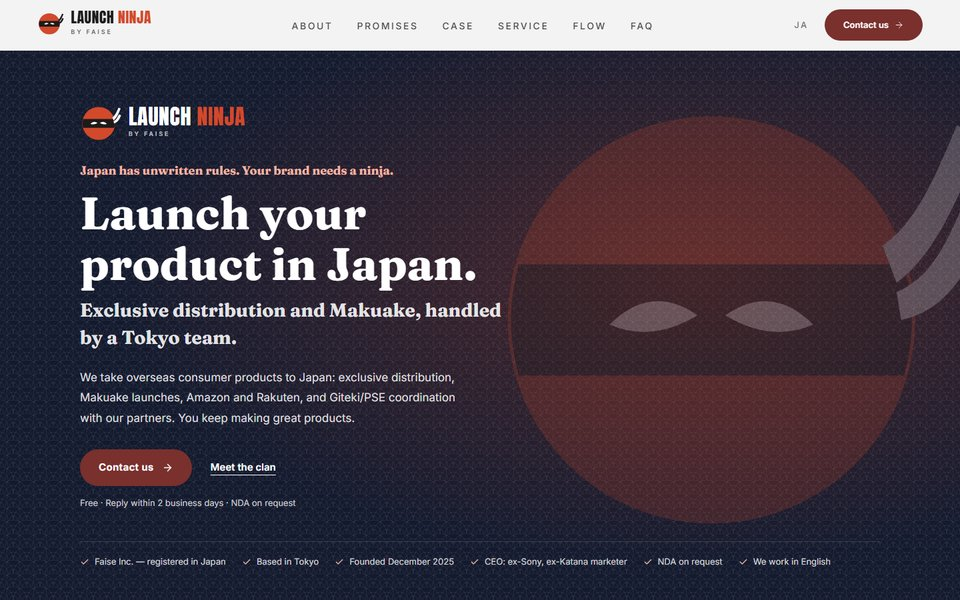
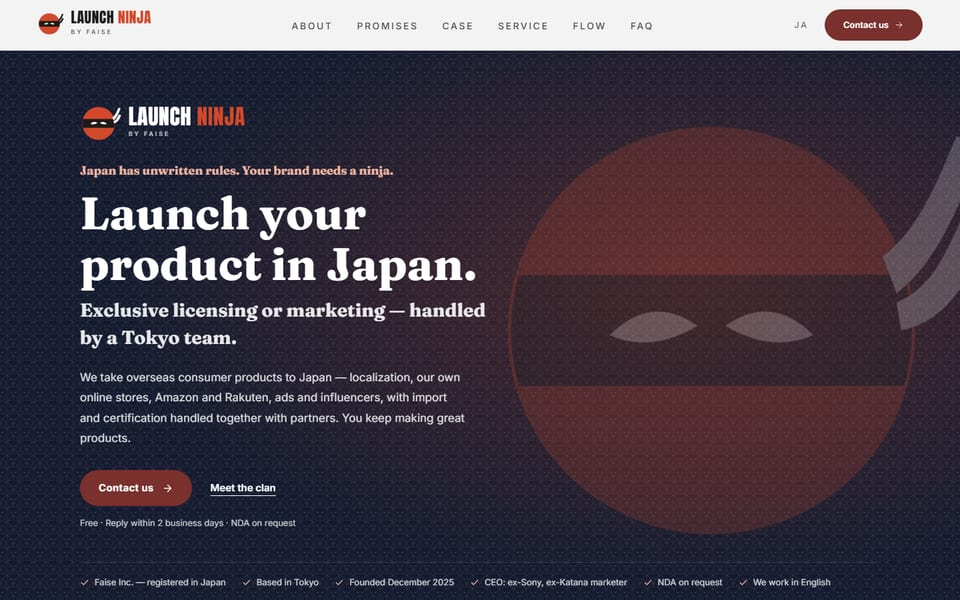
feat(launch-ninja): Cyspera results, two models, no Makuake focus
- Case: Cyspera Japan launch, 10,000+ units within three months; what
  Faise handled (localization, Japanese online store with link, in-house
  ad creatives and campaigns, influencer marketing, fulfillment)
- Ways to work: Exclusive License and Marketing Only (Makuake model and
  "What is Makuake?" panel removed)
- Hero, title, meta, definition, service list, channels, flow, FAQ,
  structured data and llms.txt no longer assume a Makuake launch
- Top-page LAUNCH NINJA card: text and screenshot updated

diff --git a/src/lib/japan-ninja.ts b/src/lib/japan-ninja.ts
@@ -12,12 +12,12 @@ export const CORPORATE_NUMBER = ''
 export const CTA_NOTE = 'Free · Reply within 2 business days · NDA on request'
 
 export const ninjaMeta = {
-  title: 'Japan Distributor & Makuake Launch Partner | LAUNCH NINJA by Faise',
+  title: 'Japan Market Entry & Exclusive Distribution Partner | LAUNCH NINJA by Faise',
   description:
-    'Tokyo-based partner for overseas consumer brands. Exclusive distribution, Makuake launches, Amazon & Rakuten, and Giteki/PSE coordination. Get a free Japan Scan.',
+    'Tokyo-based partner for overseas consumer brands. Take an exclusive Japan license or keep your setup and let us run the marketing: e-commerce, Amazon & Rakuten, ads and influencers. Get a free Japan Scan.',
   // AI 検索・要約で引用されやすい定義文（ページ上部にも表示）
   definition:
-    'LAUNCH NINJA by Faise is a Tokyo-based Japan market entry service for overseas consumer brands, offering exclusive distribution, Makuake crowdfunding launches, Amazon and Rakuten sales, influencer marketing, and Giteki/PSE coordination with partners.',
+    'LAUNCH NINJA by Faise is a Tokyo-based Japan market entry service for overseas consumer brands. Faise either takes an exclusive license and launches the product across Japanese channels (its own online store, Amazon, Rakuten, retail and more), or runs the Japan marketing for a brand’s existing setup — localization, ads and influencer marketing, with import and certification handled together with partners.',
 }
 
 // 上部メニュー（LP 内のセクションへ）
@@ -33,8 +33,8 @@ export const ninjaNav = [
 export const ninjaHero = {
   eyebrow: NINJA_NAME,
   kicker: 'Japan has unwritten rules. Your brand needs a ninja.',
-  h1: ['Launch your product in Japan.', 'Exclusive distribution and Makuake, handled by a Tokyo team.'],
-  sub: 'We take overseas consumer products to Japan: exclusive distribution, Makuake launches, Amazon and Rakuten, and Giteki/PSE coordination with our partners. You keep making great products.',
+  h1: ['Launch your product in Japan.', 'Exclusive licensing or marketing — handled by a Tokyo team.'],
+  sub: 'We take overseas consumer products to Japan — localization, our own online stores, Amazon and Rakuten, ads and influencers, with import and certification handled together with partners. You keep making great products.',
   note: 'For makers of gadgets, lifestyle and beauty products. No Japanese entity needed.',
   clanAlt:
     'Illustration of the four Faise ninjas standing together in front of a night Tokyo skyline: Hanzo in indigo at the center, Basho in moss green, Chiyome in crimson and Kotaro in charcoal and orange',
@@ -125,7 +125,7 @@ export const service = {
     { name: 'Localization of story & claims', ninja: 'basho' as NinjaKey },
     { name: 'Japanese product pages', ninja: 'basho' as NinjaKey },
     { name: 'Short video & content', ninja: 'basho' as NinjaKey },
-    { name: 'Makuake page & launch', ninja: 'chiyome' as NinjaKey },
+    { name: 'Launch campaigns & PR', ninja: 'chiyome' as NinjaKey },
     { name: 'Influencer casting', ninja: 'chiyome' as NinjaKey },
     { name: 'Ads (Meta, Google, Amazon)', ninja: 'kotaro' as NinjaKey },
     { name: 'Amazon & Rakuten operations', ninja: 'kotaro' as NinjaKey },
@@ -134,7 +134,7 @@ export const service = {
   partnerTitle: 'With our partners',
   partner: ['Import', 'PSE & Giteki', 'Logistics', 'Japanese customer support'],
   channelsTitle: 'Where we sell',
-  channels: ['Makuake', 'Amazon Japan', 'Rakuten Ichiba', 'Instagram · TikTok · YouTube', 'Specialty & lifestyle stores'],
+  channels: ['Our own online stores', 'Amazon Japan', 'Rakuten Ichiba', 'Instagram · TikTok · YouTube', 'Crowdfunding (when it fits)', 'Specialty & lifestyle stores'],
 }
 
 export const clanSection = {
@@ -164,16 +164,20 @@ export const midCta = {
   body: 'Send us a message. We reply within 2 business days with a free one-page Japan Scan.',
 }
 
-// Cyspera の数値枠。
-// TODO: 数値 — 以下の value はすべて未確定のプレースホルダー。実数（と期間・比較条件）が確定したら差し替える。数字は創作しないこと
-export const caseMetrics = [
-  { label: 'Monthly sales growth', value: '{{TODO: 数値}}', note: 'vs. launch month' },
-  { label: 'Reels views', value: '{{TODO: 数値}}', note: 'across 3 creator posts' },
-  { label: 'Reels saves', value: '{{TODO: 数値}}', note: 'across 3 creator posts' },
-  { label: 'Reviews', value: '{{TODO: 数値}}', note: 'Amazon & online store' },
-]
+// 実績：Cyspera（英語LP専用。日本語ページは japan-launch.ts の track.featured のまま）
+export const cyspera = {
+  stat: { value: '10,000+', label: 'units sold within three months of launch' },
+  lead: 'We led the Japan launch of Cyspera, a skincare brand from the Swiss company scientis, and sold more than 10,000 units within three months of launch.',
+  workLabel: 'Faise handled every part of the Japan go-to-market',
+  work: [
+    { title: 'Localization & positioning', body: 'We adapted the brand message and product information for Japanese consumers.' },
+    { title: 'E-commerce', body: 'We built and ran the Japanese online store.', link: { href: 'https://www.luxora.shop/products/cyspera-dark-spot-treatment', label: 'luxora.shop' } },
+    { title: 'Advertising', body: 'We produced the ad creatives in-house and ran the paid campaigns.' },
+    { title: 'Influencer marketing', body: 'We cast Japanese influencers and planned and managed their content.' },
+    { title: 'Fulfillment', body: 'We managed shipping to customers in Japan.' },
+  ] as { title: string; body: string; link?: { href: string; label: string } }[],
+}
 
-// FLOW：6ステップ
 // 流れ（問い合わせから拡販まで）
 // TODO: 要記入 — 各ステップの目安期間（週）
 export const flow = {
@@ -184,7 +188,7 @@ export const flow = {
     { title: 'Free Japan Scan', body: 'Within 2 business days: buyer, price band, claims that land and best channels.', ninja: 'hanzo' as NinjaKey },
     { title: 'Meeting & proposal', body: 'An online meeting, then a proposal with the model and terms in writing.', ninja: 'hanzo' as NinjaKey },
     { title: 'Prepare', body: 'Compliance and import with partners; story, pages and video localized.', ninja: 'basho' as NinjaKey },
-    { title: 'Launch', body: 'Makuake or marketplace launch, with creators going first.', ninja: 'chiyome' as NinjaKey },
+    { title: 'Launch', body: 'Online store, Amazon and Rakuten go live, with creators going first.', ninja: 'chiyome' as NinjaKey },
     { title: 'Scale', body: 'Amazon, Rakuten, ads, then retail.', ninja: 'kotaro' as NinjaKey },
   ],
 }
@@ -210,12 +214,12 @@ export const finalCta = {
 // 信頼バー（ヒーロー直下）。事実のみ
 export const trustBar = ['Faise Inc. — registered in Japan', 'Based in Tokyo', 'Founded December 2025', 'CEO: ex-Sony, ex-Katana marketer', 'NDA on request', 'We work in English']
 
-// 対象（Kickstarter などで実績のあるメーカー）
+// 対象（海外で売れている商品を持つメーカー）
 export const whoFor = {
   label: 'Who it’s for',
   h2: ['Built for makers who are ready for Japan —', 'even if Japan wasn’t in the plan.'],
   items: [
-    'You’ve proven demand on Kickstarter, Indiegogo or your own store.',
+    'Your product already sells abroad — on your own store, Amazon or Kickstarter.',
     'You don’t have a Japanese entity, team or importer.',
     'You make consumer products: gadgets, lifestyle or beauty.',
     'You’d rather not spend months learning Japan’s rules yourself.',
@@ -227,38 +231,24 @@ export const whoFor = {
   ],
 }
 
-// 協業の形（3つ）
+// 協業の形（2つ）
 export const waysToWork = {
   label: 'Ways to work',
-  h2: ['Three ways to', 'launch in Japan.'],
+  h2: ['Two ways to', 'launch in Japan.'],
   items: [
     {
-      name: 'Exclusive Distribution',
-      title: 'We become your exclusive partner in Japan.',
-      body: 'Import (with our partners), launch, sales and marketing — handled as one team, for an agreed term.',
+      name: 'Exclusive License',
+      title: 'We license your brand for Japan and launch it everywhere.',
+      body: 'We take an exclusive license for Japan and run the whole launch as one team: import (with our partners), our own online store, Amazon and Rakuten, ads, influencers and retail — for an agreed term.',
       best: 'Best if you want Japan handled end-to-end.',
-    },
-    {
-      name: 'Makuake Launch',
-      title: 'We launch you on Makuake.',
-      body: 'We plan and run your launch on Makuake, one of Japan’s best-known crowdfunding platforms for new products, then carry the momentum into Amazon, Rakuten and retail.',
-      best: 'Best if you’ve just finished a Kickstarter or Indiegogo campaign.',
     },
     {
       name: 'Marketing Only',
       title: 'You keep your setup. We run the marketing.',
-      body: 'Keep your current distributor or Amazon setup. We run localization, influencers, content and ads in Japan.',
+      body: 'Keep your current distributor, Amazon or online store. We run localization, ad creatives and campaigns, and influencer marketing in Japan.',
       best: 'Best if you already sell in Japan but sales are flat.',
     },
   ],
-  note: 'Models can be combined — for example, a Makuake launch first, then exclusive distribution.',
-}
-
-// Makuake の説明（数字は出典付きで確定してから足す）
-// TODO: 要記入 — Makuake の規模（プロジェクト数・応援総額など）を、出典と年月つきで追加する
-export const makuake = {
-  title: 'What is Makuake?',
-  body: 'Makuake is one of Japan’s best-known crowdfunding platforms for launching new products to early adopters. It works like a Japanese Kickstarter, and many buyers and retailers watch it for what’s new. A strong Makuake launch gives you Japanese reviews, buzz and a sales record to take to Amazon, Rakuten and stores.',
 }
 
 // 会社情報
@@ -284,7 +274,7 @@ export const ninjaFaq = {
   items: [
     {
       q: 'What does exclusive distribution in Japan look like with you?',
-      a: 'Faise becomes your single partner for Japan for an agreed, renewable term. The term, territory and channel scope are written into a distribution agreement before anything ships, and exclusivity can be limited to specific channels if you already sell in Japan.',
+      a: 'Faise takes an exclusive license and becomes your single partner for Japan for an agreed, renewable term. The term, territory and channel scope are written into a distribution agreement before anything ships, and exclusivity can be limited to specific channels if you already sell in Japan.',
     },
     {
       q: 'Is there a minimum order or sales commitment?',
@@ -304,15 +294,11 @@ export const ninjaFaq = {
     },
     {
       q: 'What have you done before?',
-      a: 'We run the Japan expansion of Cyspera, a skincare product from the Swiss brand scientis: sales on Amazon Japan and online stores, ad operations and creator content with Japanese influencers. Our CEO also brings marketing experience from Sony and Katana, a Japanese marketing firm.',
+      a: 'We led the Japan launch of Cyspera, a skincare brand from the Swiss company scientis, and sold more than 10,000 units within three months of launch. We handled localization, the Japanese online store, ad creatives and campaigns, influencer marketing and fulfillment. Our CEO also brings marketing experience from Sony and Katana, a Japanese marketing firm.',
     },
     {
-      q: 'What is Makuake?',
-      a: 'Makuake is one of Japan’s best-known crowdfunding platforms for launching new products. It works like a Japanese Kickstarter: early adopters back new products, and a strong launch gives you Japanese reviews and a sales record to take to Amazon, Rakuten and retailers.',
-    },
-    {
-      q: 'We already ran a Kickstarter or Indiegogo campaign. Can we still launch on Makuake?',
-      a: 'In many cases, yes — Makuake is about launching to Japanese buyers. Makuake has its own rules, for example on products already sold in Japan, so we check your product’s eligibility before planning the launch.',
+      q: 'Where will our product be sold in Japan?',
+      a: 'Wherever your buyers are. Usually that means our own Japanese online store, Amazon Japan and Rakuten Ichiba, backed by ads and influencer content — then specialty and lifestyle retail. Crowdfunding platforms are an option when they fit the product, not a requirement.',
     },
     {
       q: 'Who handles Giteki, PSE, Japanese labels and import?',

diff --git a/src/components/views/JapanNinjaView.tsx b/src/components/views/JapanNinjaView.tsx
@@ -19,14 +19,13 @@ import {
   NINJA_NAME,
   SCAN_ANCHOR,
   about,
-  caseMetrics,
+  cyspera,
   clan,
   clanSection,
   companyFacts,
   finalCta,
   flow,
   leader,
-  makuake,
   midCta,
   ninjaFaq,
   ninjaHero,
@@ -89,13 +88,13 @@ const ld = {
       '@id': `${url}#service`,
       name: NINJA_NAME,
       alternateName: 'LAUNCH NINJA',
-      serviceType: 'Japan market entry, exclusive distribution and Makuake launch for overseas brands',
+      serviceType: 'Japan market entry, exclusive licensing and marketing for overseas brands',
       description: ninjaMeta.definition,
       url,
       inLanguage: 'en',
       provider: { '@id': ORG_ID },
       areaServed: { '@type': 'Country', name: 'Japan' },
-      audience: { '@type': 'BusinessAudience', name: 'Overseas consumer product makers and brands, including Kickstarter and Indiegogo creators' },
+      audience: { '@type': 'BusinessAudience', name: 'Overseas consumer product makers and brands' },
       hasOfferCatalog: {
         '@type': 'OfferCatalog',
         name: 'Ways to work',
@@ -125,8 +124,6 @@ const edoAlt: Record<string, string> = {
 const container = 'mx-auto w-full max-w-[1280px] px-5 md:px-10'
 const section = 'py-16 md:py-24'
 const ninjaByKey = Object.fromEntries(clan.map((c) => [c.key, c])) as Record<NinjaKey, (typeof clan)[number]>
-// 未確定（{{TODO}}）の数値は表示しない
-const shownMetrics = caseMetrics.filter((m) => !m.value.includes('TODO'))
 
 // 見出し上の小ラベル。seal を渡すと朱色の落款（漢字1字・装飾）を添える
 function Eyebrow({ children, light = false, seal }: { children: React.ReactNode; light?: boolean; seal?: string }) {
@@ -341,7 +338,7 @@ export default function JapanNinjaView() {
         </div>
       </section>
 
-      {/* 3. Who it's for：Kickstarter などで実績のあるメーカー */}
+      {/* 3. Who it's for：海外で売れている商品を持つメーカー */}
       <section id="who" className={`${section} scroll-mt-16 bg-white`}>
         <div className={container}>
           <div className="grid gap-10 lg:grid-cols-[minmax(0,1fr)_minmax(0,1fr)] lg:items-end lg:gap-14">
@@ -433,34 +430,38 @@ export default function JapanNinjaView() {
         <div className={`${container} relative`}>
           <SectionHead en="Voice" label={featured.label.en} title={featured.title.en} light />
           <div data-fx className="mt-12 grid overflow-hidden rounded-2xl border-2 border-sumi bg-white text-sumi shadow-[0_20px_50px_-20px_rgba(0,0,0,0.6)] md:grid-cols-[minmax(0,0.75fr)_minmax(0,1.25fr)]">
-            <div className="relative flex items-center justify-center bg-washi bg-seigaiha p-8">
+            <div className="relative flex flex-col items-center justify-center gap-6 bg-washi bg-seigaiha p-8">
               <span className="absolute left-4 top-4 rounded-full border-2 border-sumi bg-white px-3 py-1 font-inter text-[11px] font-bold uppercase tracking-[0.18em]">Case 01</span>
-              <Image unoptimized src={W('case-cyspera')} alt={featured.image.alt.en} width={featured.image.w} height={featured.image.h} sizes="200px" className="ninja-bob h-[220px] w-auto object-contain md:h-[280px]" />
+              <Image unoptimized src={W('case-cyspera')} alt={featured.image.alt.en} width={featured.image.w} height={featured.image.h} sizes="200px" className="ninja-bob mt-6 h-[200px] w-auto object-contain md:h-[250px]" />
+              {/* 実績の数字（大きく） */}
+              <div className="w-full rounded-xl border-2 border-sumi bg-white px-4 py-4 text-center shadow-[4px_4px_0_#1D1B1A]">
+                <p className="font-display text-[clamp(44px,8vw,60px)] leading-none text-shu">{cyspera.stat.value}</p>
+                <p className="mt-2 text-[13.5px] font-semibold leading-[1.4]">{cyspera.stat.label}</p>
+              </div>
             </div>
             <div className="p-6 md:p-10">
               <p className="font-inter text-[11px] font-bold uppercase tracking-[0.22em] text-beni">{featured.brand}</p>
-              <p className="mt-3 text-[16px] leading-[1.85] text-[#333]">{featured.body.en}</p>
-              <p className="mt-6 font-inter text-[11px] font-bold uppercase tracking-[0.22em] text-[#666]">{featured.workLabel.en}</p>
-              <ul className="mt-3 flex flex-wrap gap-2">
-                {featured.work.map((w) => (
-                  <li key={w.en} className="inline-flex items-center gap-1.5 rounded-full border-2 border-sumi bg-washi px-3.5 py-1.5 text-[13.5px] font-semibold">
-                    <Check size={14} strokeWidth={2.5} aria-hidden="true" className="text-beni" />
-                    {w.en}
+              <p className="mt-3 text-[16.5px] font-medium leading-[1.8] text-[#222]">{cyspera.lead}</p>
+              <p className="mt-7 font-inter text-[11px] font-bold uppercase tracking-[0.22em] text-[#666]">{cyspera.workLabel}</p>
+              <ul className="mt-3 divide-y divide-dashed divide-sumi/15 border-y border-dashed border-sumi/15">
+                {cyspera.work.map((w) => (
+                  <li key={w.title} className="flex gap-3 py-3">
+                    <Check size={18} strokeWidth={2.5} aria-hidden="true" className="mt-[0.2em] shrink-0 text-beni" />
+                    <p className="text-[14.5px] leading-[1.65] text-[#444]">
+                      <span className="font-bold text-sumi">{w.title}: </span>
+                      {w.body}
+                      {w.link && (
+                        <>
+                          {' '}
+                          <a href={w.link.href} target="_blank" rel="noopener" className="font-semibold text-beni underline underline-offset-4 hover:text-beni-deep">
+                            {w.link.label} ↗
+                          </a>
+                        </>
+                      )}
+                    </p>
                   </li>
                 ))}
               </ul>
-              {/* 数値枠。TODO: 数値 — caseMetrics の value が確定したものだけ表示される（japan-ninja.ts） */}
-              {shownMetrics.length > 0 && (
-                <ul className="mt-6 grid grid-cols-2 gap-3">
-                  {shownMetrics.map((m) => (
-                    <li key={m.label} className="rounded-xl border-2 border-sumi bg-washi p-4">
-                      <p className="text-[12.5px] font-medium text-[#555]">{m.label}</p>
-                      <p className="mt-1.5 font-display text-[30px] leading-none text-beni">{m.value}</p>
-                      <p className="mt-1.5 text-[11.5px] text-[#595959]">{m.note}</p>
-                    </li>
-                  ))}
-                </ul>
-              )}
             </div>
           </div>
 
@@ -541,14 +542,14 @@ export default function JapanNinjaView() {
         </div>
       </section>
 
-      {/* 7. Ways to work：3つのモデル＋Makuake の説明 */}
+      {/* 7. Ways to work：2つのモデル（独占ライセンス／マーケティングのみ） */}
       <section id="models" className="relative scroll-mt-16 overflow-hidden bg-white py-20 md:py-28">
         <div className={container}>
           <SectionHead en="Plans" label={waysToWork.label} title={waysToWork.h2} />
-          <ul className="mt-12 grid gap-6 lg:grid-cols-3">
+          <ul className="mx-auto mt-12 grid max-w-[1000px] gap-6 md:grid-cols-2">
             {waysToWork.items.map((m, i) => (
               <li key={m.name} data-fx style={delay(i * 120)} className="flex flex-col overflow-hidden rounded-2xl border-2 border-sumi bg-white shadow-[0_10px_24px_rgba(28,25,23,0.14)] transition-transform duration-300 hover:-translate-y-1.5">
-                <div className={`flex items-center justify-between px-6 py-4 text-white ${['bg-beni', 'bg-shu', 'bg-sumi'][i]}`}>
+                <div className={`flex items-center justify-between px-6 py-4 text-white ${['bg-beni', 'bg-sumi'][i]}`}>
                   <p className="font-display text-[22px] uppercase tracking-[0.03em]">{m.name}</p>
                   <span className="font-display text-[34px] leading-none text-white/40">{String(i + 1).padStart(2, '0')}</span>
                 </div>
@@ -563,17 +564,6 @@ export default function JapanNinjaView() {
               </li>
             ))}
           </ul>
-          <p className="mt-6 text-center text-[14px] text-[#595959]">{waysToWork.note}</p>
-          <div data-fx className="mt-12 grid overflow-hidden rounded-2xl border-2 border-sumi bg-[#141A2E] text-white md:grid-cols-[minmax(0,0.9fr)_minmax(0,1.1fr)]">
-            <div className="relative aspect-[16/10] md:aspect-auto">
-              <Image unoptimized src={W('edo-market')} alt={edoAlt.market} fill sizes="(min-width: 768px) 45vw, 100vw" className="object-cover" />
-            </div>
-            <div className="p-6 md:p-10">
-              <p className="font-inter text-[11px] font-bold uppercase tracking-[0.22em] text-[#F2B4A2]">Makuake</p>
-              <h3 className="mt-2 font-mincho text-[24px] font-bold">{makuake.title}</h3>
-              <p className="mt-3 text-[15px] leading-[1.85] text-white/85">{makuake.body}</p>
-            </div>
-          </div>
         </div>
       </section>
 

diff --git a/src/components/Products.tsx b/src/components/Products.tsx
@@ -23,7 +23,7 @@ const products = [
     name: 'LAUNCH NINJA',
     href: '/en/launch-ninja',
     img: '/images/products/launch-ninja.jpg',
-    body: '海外の消費者向けブランドの日本進出を支援するサービスです（英語サイト）。独占販売代理、Makuakeでのローンチ、Amazon・楽天での販売、パートナーと連携した技適・PSEの対応まで、東京のチームが担当します。',
+    body: '海外の消費者向けブランドの日本進出を支援するサービスです（英語サイト）。日本での独占ライセンスを受けて自社EC・Amazon・楽天・小売まで展開するか、ローカライズ・広告・インフルエンサーなどのマーケティングだけを担うかを選べます。輸入や技適・PSEはパートナーと連携し、東京のチームが担当します。',
   },
 ]
 
